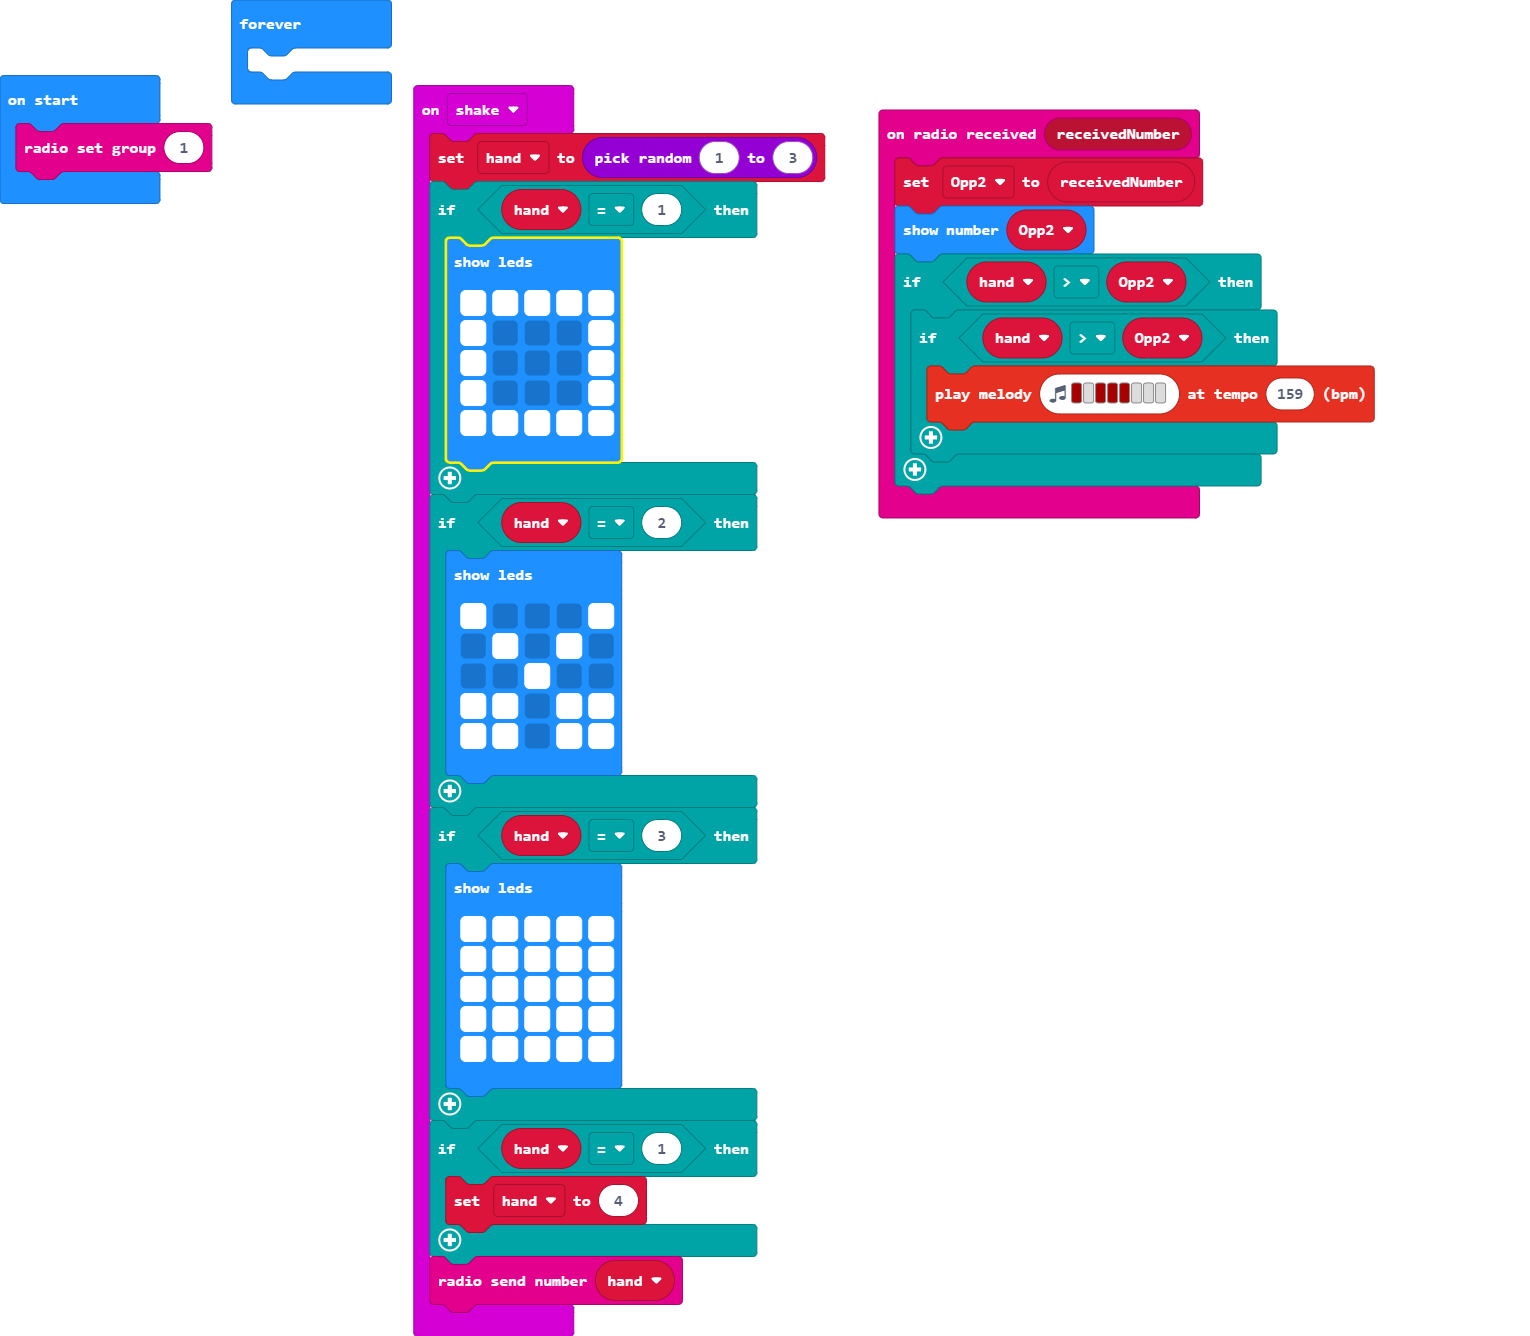
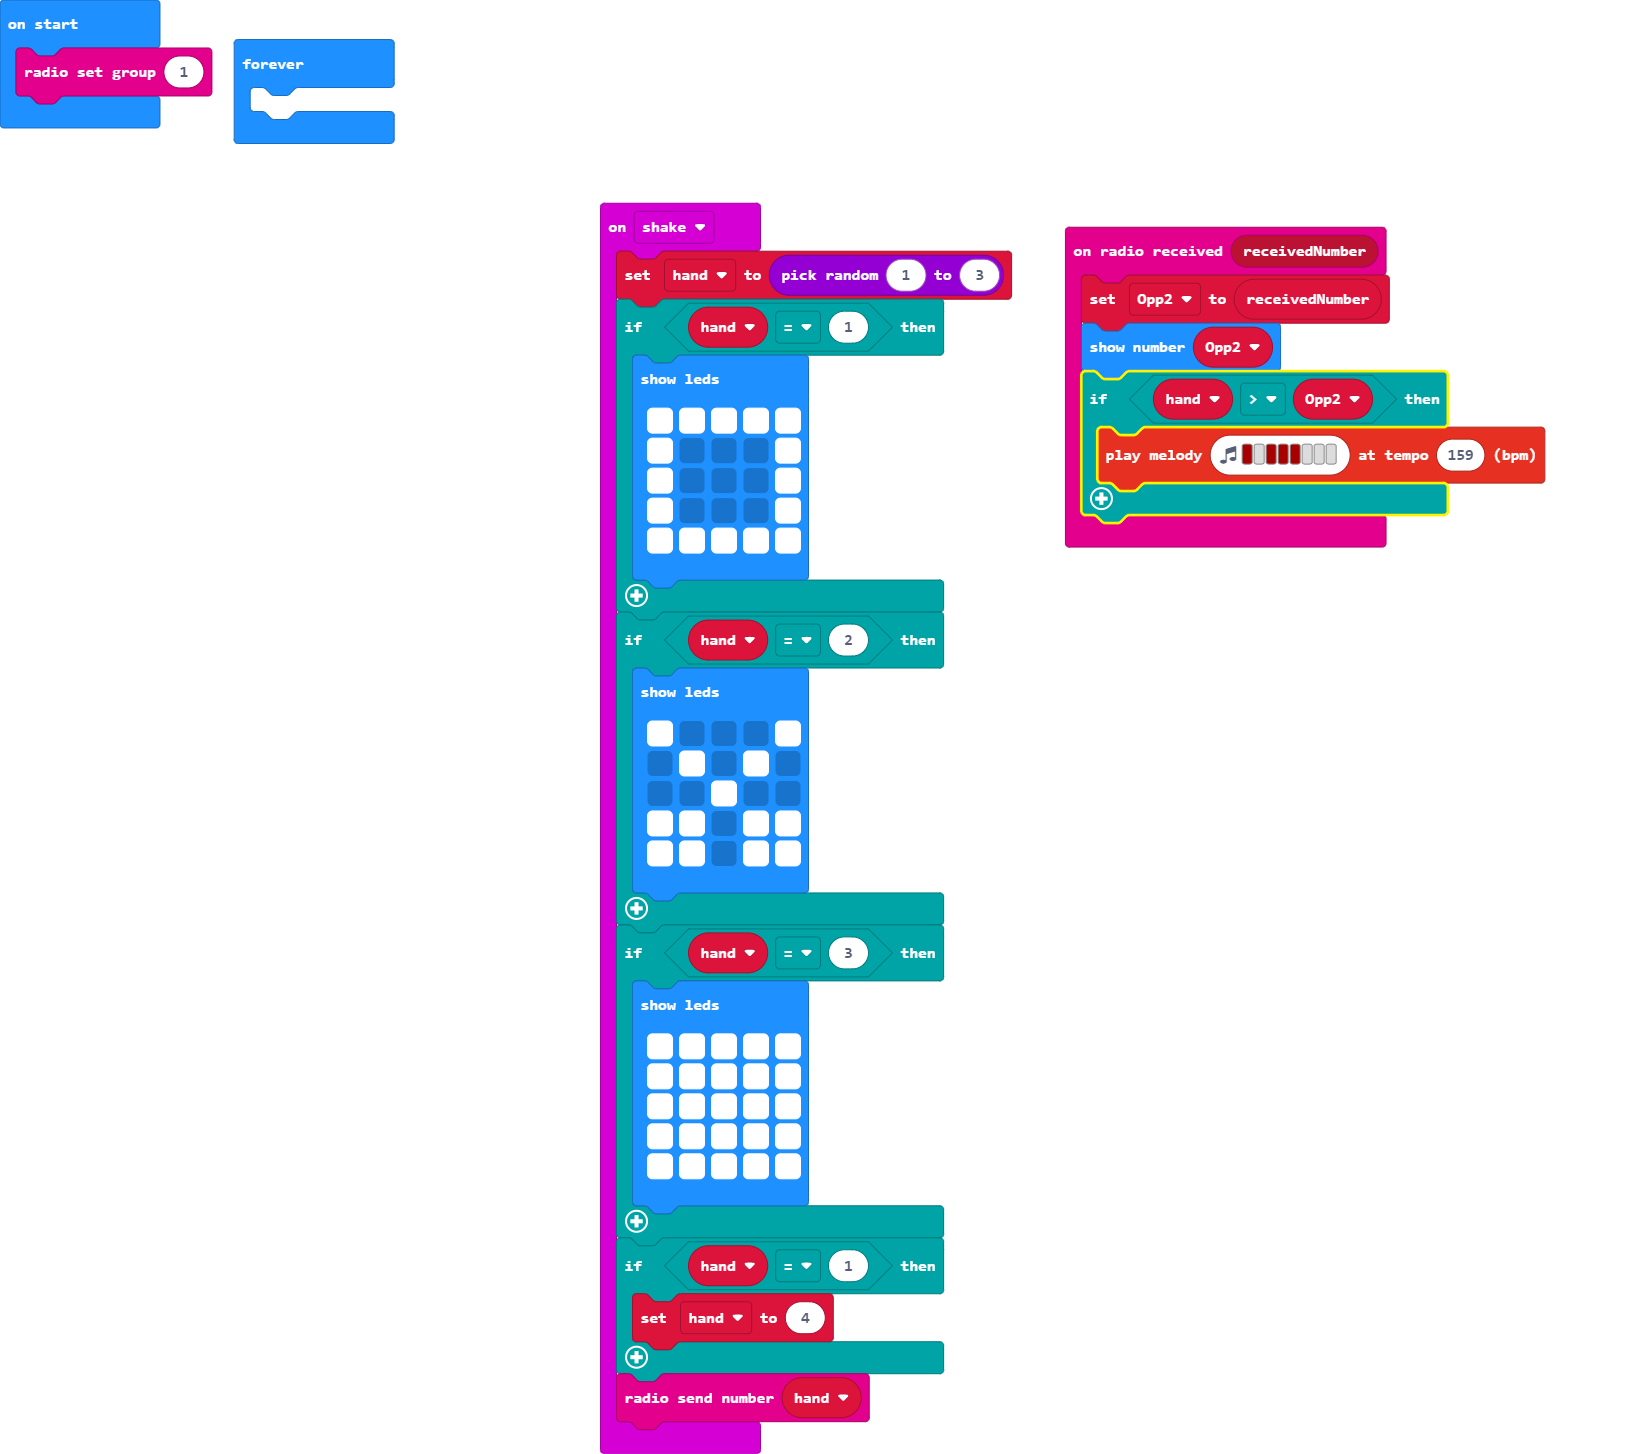
Update main.blocks, main.ts

Changed region(s): [[0.0, 0.0, 0.9523, 1.0]]

diff --git a/main.ts b/main.ts
@@ -2,9 +2,7 @@ radio.onReceivedNumber(function (receivedNumber) {
     Opp2 = receivedNumber
     basic.showNumber(Opp2)
     if (hand > Opp2) {
-        if (hand > Opp2) {
-            music.playMelody("C5 - C5 C5 C5 - - - ", 159)
-        }
+        music.playMelody("C5 - C5 C5 C5 - - - ", 159)
     }
 })
 input.onGesture(Gesture.Shake, function () {
